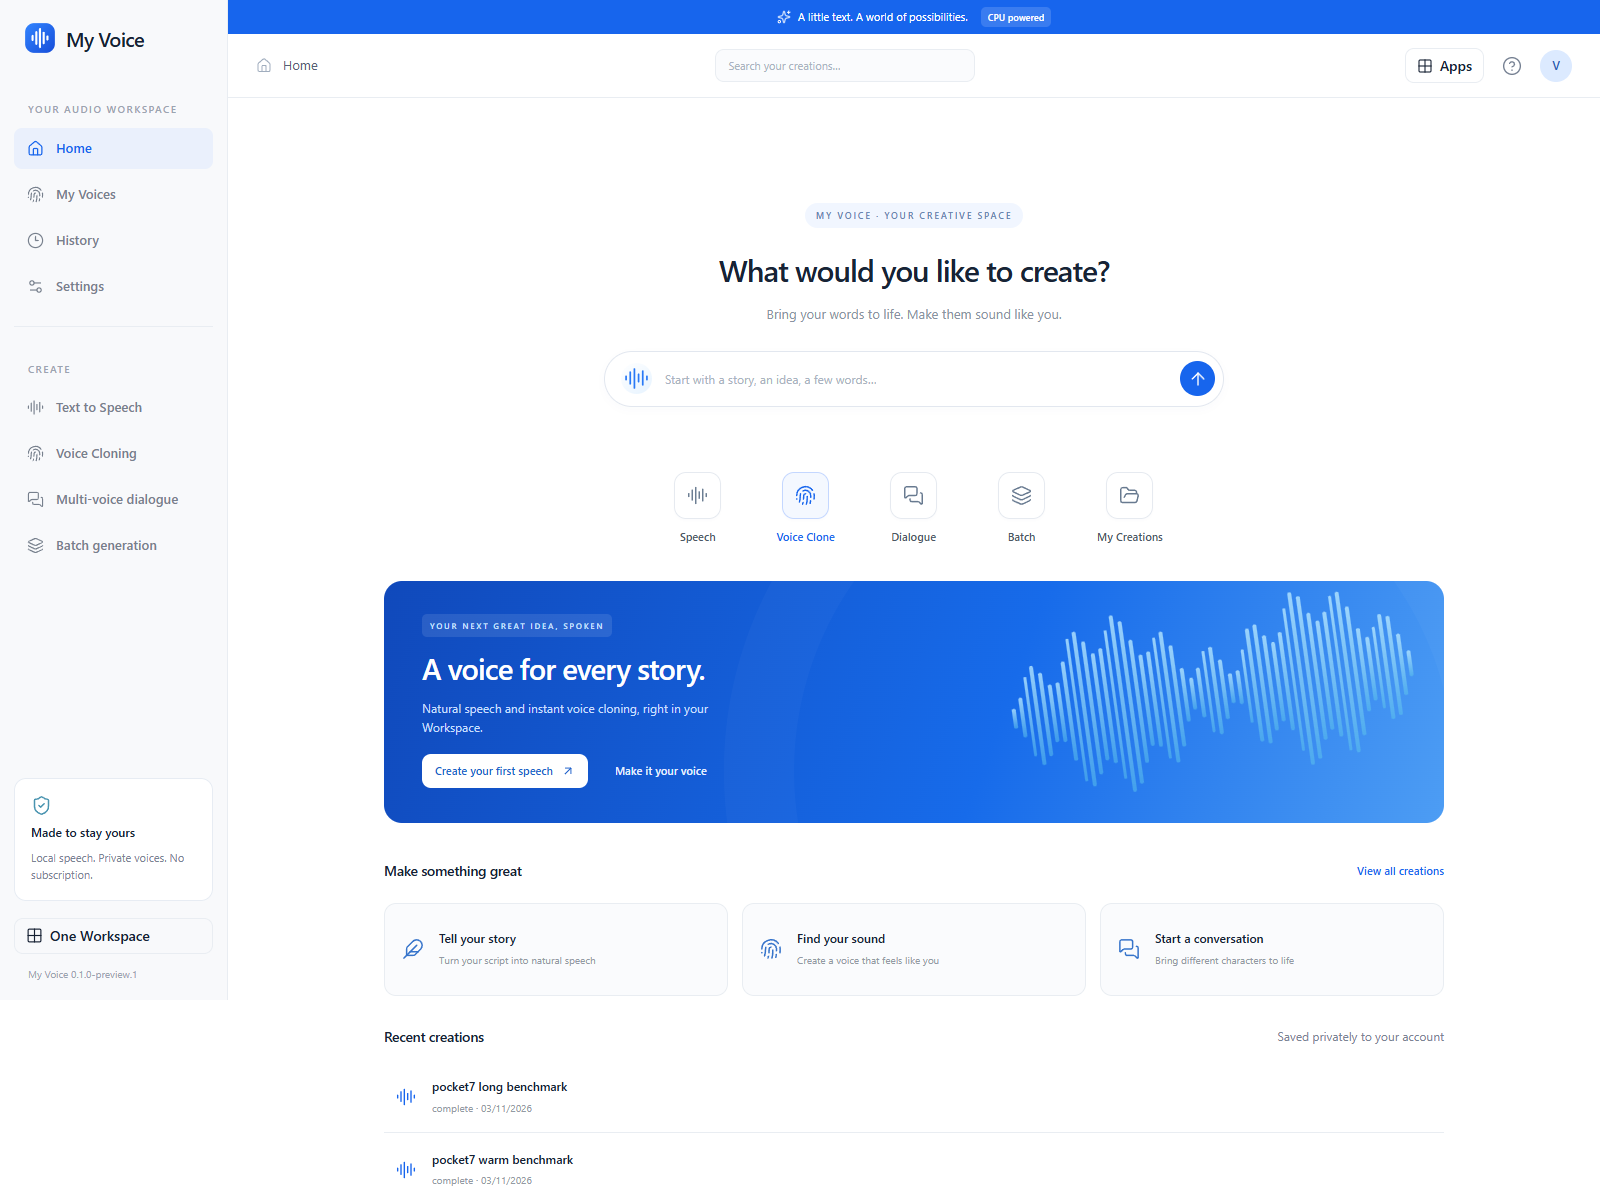
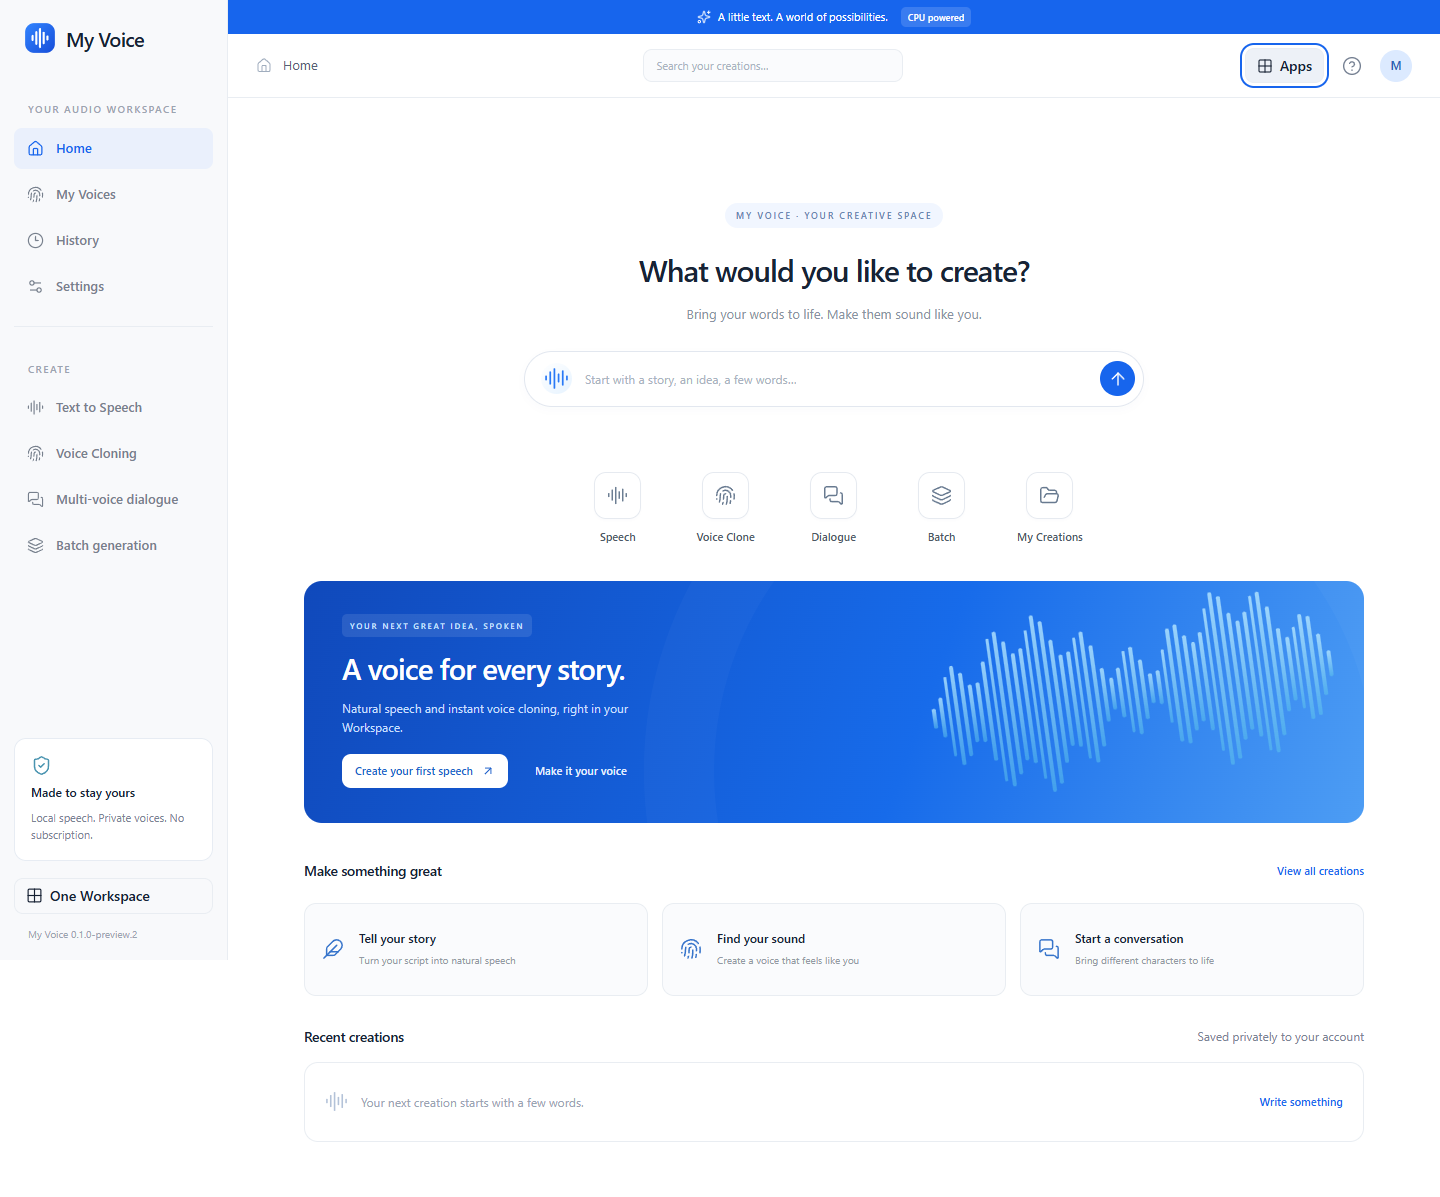
Record verified two-PC delivery and managed setup guidance

diff --git a/agents/history/2026-11-03-my-voice-compacted.md b/agents/history/2026-11-03-my-voice-compacted.md
@@ -238,3 +238,62 @@ Managed candidate upgrade/rollback/reapply now fully passes on a fresh native110
 All full-suite Go tests, touched-package vet, app vet, publisher regression, branding desktop/phone and image checks pass. Public my-voice repository created with Actions explicitly disabled. Preparing initial source commit/tag and immutable app assets; both owner installations remain pending. Copied upstream licence whitespace is retained verbatim; own-source whitespace checks are clean.
 
 Final preview2 native smoke and desktop/phone UI pass. Exact EXE SHA256 e66d61720002393890a8ab46273919a04cb95dbf716f217f88ae84f6a23b4189. Official Pocket transitive MPL components now have Cargo.lock-derived dependency notices and corresponding source offer. Source-only preview1 remains unchanged; first downloadable release is preview2. Runtime payload unchanged. Publication and both production installs pending; managed candidate acceptance already passes.
+
+## Published111 and primary complete; secondary repair in progress
+
+My Voice2 public c07ace5/13 assets and Workspace111 source82adff5/442 assets are immutable and verified. Required signed Android12 APK and anonymous ordinary channel pass; channel main cb1da2d. Final normal public-pin build has36 apps/429 packages, candidate:false. Exact final fresh111 SSO/390px/global logout, omission and public110→111 protected update/rollback/reapply all pass. Source/catalog/archive release notices match. Synthetic NTFS fixtures stopped and safely removed; evidence stays outside repo on I.
+
+Primary normal new111 installer --update --apply --apps workspace,voice completed. Voice2 EXE e66d61720002393890a8ab46273919a04cb95dbf716f217f88ae84f6a23b4189, all116 owned payloads and served JS/CSS/logo match tested public bytes;35 services running/no failures. All old app/package contracts/bytes, identity/password fields, old decrypted secret entries and locations retained; MyAI20/Hosting2 retained. Full recovery manifest/every file verified, newest kept; normal cleanup retired1 eligible older copy (~53.1MB). Public apphost bootstrap is intentionally non-sensitive metadata; private voices/history/settings deny anonymous access. Primary browser required normal login, no owner authenticated feature fixture performed.
+
+Secondary owner Updates normal110 integration guard required verified installer repair. Clicked Back up and reinstall once; installer1.3GB downloaded and verified, new process started. Old page reports stage4/check compatibility then connection lost while controller/tunnel stopped. Latest public /healthz still Cloudflare1033 at03:29UTC; no duplicate action submitted. Wait for supported repair to reconnect, verify111 and preserved versions, reload updated UI, check Voice optional row starts unchecked, explicitly choose only Voice, apply/verify completion/recovery/35 healthy services/served Voice2 UI, screenshot. Do not claim secondary complete or public filesystem audit. Do not bypass recovery or edit catalog/identity markers.
+
+CUA Chrome3: voiceRolloutTab585734847 secondary/updates; voiceSecondaryHealthTab585734852 health check. Baseline34 table text rows saved privately in task artifacts. Original task-modified HF tab restored to original model tree; user tabs untouched. Primary task login tab closed. No owner model downloads/license clicks/audio created. Separate explicit first-use models remain. Mandatory publisher finished in session66028; primary delivery proof/session58149 completed. Remaining final receipts, history/public delivery docs, source-only handoff pushes, secondary verification and task tab cleanup pending. Source release tags/assets must stay unchanged.
+
+## Final delivery — complete on both PCs
+
+My Voice2 source c07ace5,13 immutable assets and anonymous ZIP/EXE/source/codec
+checks pass. Exact native EXE SHA256 is
+e66d61720002393890a8ab46273919a04cb95dbf716f217f88ae84f6a23b4189.
+Workspace112 source33aaa79/442 assets, signed Android12 and ordinary public
+channel436758f are verified.111 and source-only app1 tags/assets remain intact.
+No GitHub Actions/VM/WSL/hosted builds. Runtime/model pins are unchanged by112.
+
+Delivery caught111's outer discovery gate hiding optional groups before its
+correct selection helper ran.112 fixes that gate, with a full CheckUpdates
+public-index red/green regression and native110 setup→111 repair→112 ordinary
+update→unchecked optional Voice→Voice-only install acceptance. All relevant Go
+checks/vet pass; every pre-existing fixture app/manager byte is retained. The
+initial fresh111 harness intentionally had a Voice setup opt-out and correctly
+hid it; its timeout was a fixture assumption, not a remaining discovery defect.
+
+Primary: normal protected111 + Voice2 complete. All116 owned payloads and served
+JS/CSS/logo match public/tested bytes;35 native services running/no failures.
+All35 old app contracts/payloads, old decrypted secret entries, identity/password
+fields and installation locations retained; MyAI20/Hosting2 unchanged. Independently
+verified19124 recovery files and manifest; newest recovery retained, normal cleanup
+retired1 older eligible copy (~53.1MB). Primary authenticated browser required a
+normal sign-in, so no authenticated owner browser acceptance is claimed there;
+local version/managed OIDC metadata and anonymous private API denial pass.
+
+Secondary: supported owner Updates110→111 repair completed, followed by normal
+17.7MB Workspace-only112 update. Corrected UI offered Voice UNCHECKED; selected
+only Voice2 (73.6MB/116 files). All9 native stages/backup/startup/cleanup complete
+in13m35s.35 services healthy including Voice; fresh check reports Voice2 and112
+Up to date. All32 other displayed groups/versions retained, including MyAI20 and
+Hosting2. Existing MyMeet review warning predates this task. Actual MyAccounts
+session opens Voice home, renders2, expected index-en0bbr1A.js/index-CljoH0WX.css,
+and shared Apps picker includes Voice in Creative & Development. Latest verified
+recovery update-20261103T043541-ff73f589a0fe kept; normal cleanup retired1 eligible
+older copy (~292.2MB). No independent remote filesystem/credential audit claimed.
+
+Combined sanitised receipts: app docs/delivery-preview2.json and Workspace
+ docs/my-voice-delivery.json. Owner screenshots stay private; source screenshots
+use synthetic accounts. No owner audio, references, model-download acknowledgements
+or functional fixtures were created. Models remain explicit first-use Settings
+downloads per PC. MOSS cloning and ungated Pocket presets need no HF login; no
+blind quality-superiority or non-English/old-laptop/physical-phone/reboot/clean-host
+claim. Native CPU/WAV/MP3/clone/Drive/queue/recovery and390px acceptance are recorded
+in the report/receipts. All task NTFS fixtures and idle test controllers removed;
+owner data/recovery and other apps retained. Completed updater/task verification
+tabs closed; live secondary Voice tab left as deliverable. Nothing remains for
+this managed app delivery; immutable release assets and code tags stay unchanged.

diff --git a/README.md b/README.md
@@ -19,7 +19,8 @@ It runs on your Windows PC. No speech subscription or GPU is required.
 ## Get started
 
 Install **My Voice** from the Creative & Development section of One Workspace
-setup or Updates. Open it from Apps, then visit Settings to install a model.
+setup or Updates. Existing installations need Workspace112 for the new optional
+app to appear in Updates. Open it from Apps, then visit Settings to install a model.
 MOSS is the open cloning option; Pocket's ungated checkpoints provide preset
 speech only. The launcher contains its CPU runtimes, **not the model weights**.
 Model downloads are explicit, version pinned and checksum verified.
@@ -43,3 +44,5 @@ English has native acceptance coverage; other MOSS languages need your own revie
 Hindi, noise removal, GPU engines, dubbing and voice agents are not included.
 There is no claim of ElevenLabs feature parity, voice-quality superiority or
 minimum-memory support on hardware that was not tested.
+
+[Verified two-PC delivery receipt](docs/delivery-preview2.json).

diff --git a/MODEL-LICENSES.md b/MODEL-LICENSES.md
@@ -2,7 +2,7 @@
 
 | Component | Exact upstream source | Conditions |
 |---|---|---|
-| Pocket runtime | kyutai-labs/pocket-tts v4.0.1 Windows artifact (CLI3.3.0) | MIT; runtime code notice included |
+| Pocket runtime | kyutai-labs/pocket-tts v4.0.1 Windows artifact (CLI3.3.0) | MIT core; bundled third-party components include MPL-2.0; notices and corresponding sources accompany the release |
 | Pocket 18.2M / 6.9M preset checkpoints | kyutai/pocket-tts-without-voice-cloning; revisions and SHA256 in models.json | CC BY4.0; attribution to Kyutai; preset-only checkpoint |
 | Alba voice | Kyutai tts-voices / Alba MacKenna casual recording and model-specific preset state | CC BY4.0; credit Alba MacKenna and Kyutai |
 | MOSS TTS Nano ONNX weights | OpenMOSS-Team/MOSS-TTS-Nano-100M-ONNX f52645cb | Apache-2.0 model card; separately downloaded |

diff --git a/INSTALL-WINDOWS.md b/INSTALL-WINDOWS.md
@@ -2,9 +2,11 @@
 
 ## Managed One Workspace
 
-Use Workspace preview111 or newer and select **My Voice** under Creative &
-Development. Open it from the Workspace Apps picker. Existing MyAccounts sign-in,
-Workspace origin and protected storage are supplied by the manager.
+Select **My Voice** under Creative & Development during Workspace setup. To add
+it to an existing installation, update Workspace to preview112 or newer, then
+choose My Voice in Updates. Open it from the Workspace Apps picker. Existing
+MyAccounts sign-in, Workspace origin and protected storage come from the manager.
+Already installed Voice2 remains compatible with Workspace111.
 
 Go to Settings, read the model licence, and choose Download. Use MOSS for private
 voice cloning and multilingual generation. Pocket 18.2M/6.9M are smaller English
